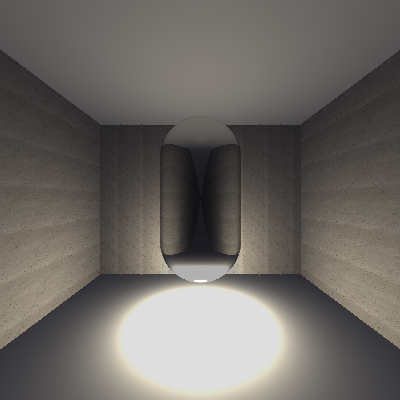
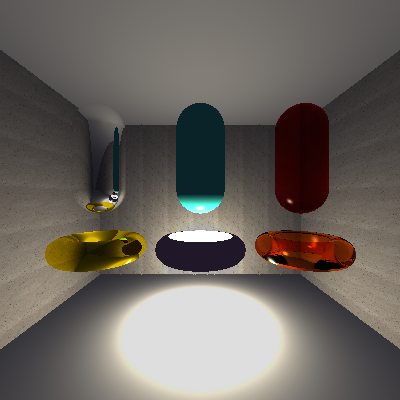
lab8 completo

diff --git a/Lab8/figures.py b/Lab8/figures.py
@@ -645,4 +645,179 @@ class Capsule(Shape):
 		
 		return [u, v]
 
+
+class Torus(Shape):
+	def __init__(self, position, major_radius, minor_radius, material):
+		super().__init__(position, material)
+		self.major_radius = major_radius  # Radio mayor (desde el centro hasta el centro del tubo)
+		self.minor_radius = minor_radius  # Radio menor (radio del tubo)
+		self.type = "Torus"
+	
+	def ray_intersect(self, orig, dir):
+		# Asegurarse de trabajar con numpy arrays
+		orig = np.array(orig, dtype=float)
+		dir = np.array(dir, dtype=float)
+		
+		# Normalizar la dirección del rayo
+		dir_length = np.linalg.norm(dir)
+		if dir_length == 0:
+			return None
+		dir = dir / dir_length
+		
+		epsilon = 1e-6
+		
+		# Trasladar el rayo al sistema de coordenadas del toro
+		ro = orig - np.array(self.position)
+		
+		# Coeficientes para la ecuación cuártica del toro
+		R = self.major_radius
+		r = self.minor_radius
+		
+		# Precálculos
+		dot_ro_ro = np.dot(ro, ro)
+		dot_rd_rd = np.dot(dir, dir)
+		dot_ro_rd = np.dot(ro, dir)
+		
+		k = dot_ro_ro - R*R - r*r
+		
+		# Coeficientes de la ecuación cuártica: at^4 + bt^3 + ct^2 + dt + e = 0
+		a = dot_rd_rd * dot_rd_rd
+		
+		b = 4.0 * dot_rd_rd * dot_ro_rd
+		
+		c = 2.0 * dot_rd_rd * k + 4.0 * dot_ro_rd * dot_ro_rd + 4.0 * R*R * dir[1]*dir[1]
+		
+		d = 4.0 * k * dot_ro_rd + 8.0 * R*R * ro[1] * dir[1]
+		
+		e = k*k + 4.0 * R*R * (ro[1]*ro[1] - r*r)
+		
+		# Resolver la ecuación cuártica usando el método de Ferrari
+		roots = self._solve_quartic(a, b, c, d, e)
+		
+		# Encontrar la intersección más cercana que esté adelante del origen
+		min_t = float('inf')
+		closest_hit = None
+		
+		for t in roots:
+			if t > epsilon and t < min_t:
+				hit_point = orig + dir * t
+				normal = self._calculate_torus_normal(hit_point)
+				
+				if normal is not None:
+					texCoords = self._calculate_uv_torus(hit_point, normal)
+					min_t = t
+					closest_hit = Intercept(hit_point, normal, t, self, dir, texCoords)
+		
+		return closest_hit
+	
+	def _solve_quartic(self, a, b, c, d, e):
+		"""Resuelve una ecuación cuártica usando el método numérico de Newton-Raphson"""
+		roots = []
+		
+		# Normalizar coeficientes
+		if abs(a) < 1e-10:
+			return []
+		
+		b /= a
+		c /= a
+		d /= a
+		e /= a
+		
+		# Método simplificado: buscar raíces usando aproximaciones numéricas
+		# Evaluamos la función en varios puntos para encontrar cambios de signo
+		def f(t):
+			return t*t*t*t + b*t*t*t + c*t*t + d*t + e
+		
+		def df(t):
+			return 4*t*t*t + 3*b*t*t + 2*c*t + d
+		
+		# Buscar raíces en un rango razonable
+		test_points = np.linspace(-10, 10, 1000)
+		
+		for i in range(len(test_points) - 1):
+			t1, t2 = test_points[i], test_points[i + 1]
+			f1, f2 = f(t1), f(t2)
+			
+			# Si hay cambio de signo, hay una raíz
+			if f1 * f2 < 0:
+				# Usar método de Newton-Raphson para refinar la raíz
+				t = (t1 + t2) / 2
+				for _ in range(10):  # Máximo 10 iteraciones
+					ft = f(t)
+					dft = df(t)
+					if abs(dft) < 1e-10:
+						break
+					t_new = t - ft / dft
+					if abs(t_new - t) < 1e-8:
+						break
+					t = t_new
+				
+				if abs(f(t)) < 1e-6:  # Verificar que es una raíz válida
+					roots.append(t)
+		
+		return roots
+	
+	def _calculate_torus_normal(self, hit_point):
+		"""Calcula la normal en un punto del toro"""
+		# Trasladar el punto al sistema de coordenadas del toro
+		p = hit_point - np.array(self.position)
+		
+		R = self.major_radius
+		r = self.minor_radius
+		
+		# Calcular la normal usando la fórmula del gradiente
+		x, y, z = p[0], p[1], p[2]
+		
+		# Distancia desde el eje Y hasta el punto proyectado en el plano XZ
+		rho = np.sqrt(x*x + z*z)
+		
+		if rho < 1e-10:
+			return None  # Punto demasiado cerca del eje central
+		
+		# Componentes de la normal
+		nx = 4.0 * x * (rho - R)
+		ny = 4.0 * y * (rho - R) / rho if rho > 1e-10 else 0
+		nz = 4.0 * z * (rho - R)
+		
+		normal = np.array([nx, ny, nz])
+		normal_length = np.linalg.norm(normal)
+		
+		if normal_length < 1e-10:
+			return None
+		
+		return normal / normal_length
+	
+	def _calculate_uv_torus(self, hit_point, normal):
+		"""Calcula las coordenadas UV para el mapeo de texturas en el toro"""
+		# Trasladar el punto al sistema de coordenadas del toro
+		p = hit_point - np.array(self.position)
+		
+		x, y, z = p[0], p[1], p[2]
+		
+		# Coordenada U: ángulo alrededor del eje principal (eje Y)
+		u = 0.5 + atan2(z, x) / (2 * pi)
+		
+		# Coordenada V: ángulo alrededor del tubo menor
+		# Primero encontrar el punto en el círculo mayor más cercano
+		rho = np.sqrt(x*x + z*z)
+		if rho < 1e-10:
+			v = 0.5
+		else:
+			# Vector desde el punto en el círculo mayor hasta el punto de impacto
+			circle_point = np.array([x * self.major_radius / rho, 0, z * self.major_radius / rho])
+			to_hit = p - circle_point
+			
+			# Ángulo en el plano perpendicular al círculo mayor
+			v = 0.5 + atan2(y, np.linalg.norm([to_hit[0], to_hit[2]]) - self.major_radius) / (2 * pi)
+		
+		# Asegurar que las coordenadas UV estén en el rango [0, 1]
+		u = u % 1.0
+		v = v % 1.0
+		if u < 0:
+			u += 1.0
+		if v < 0:
+			v += 1.0
+		
+		return [u, v]
+
 	

diff --git a/Lab8/escena_figuras.py b/Lab8/escena_figuras.py
@@ -1,7 +1,7 @@
 import pygame
 import numpy as np
 from gl import Renderer
-from figures import Sphere, Cube, Disk, Triangle, Plane, Capsule
+from figures import Sphere, Cube, Disk, Triangle, Plane, Capsule, Torus
 from material import Material, OPAQUE, REFLECTIVE, TRANSPARENT
 from lights import DirectionalLight, AmbientLight, PointLight
 from camera import Camera
@@ -11,13 +11,13 @@ WIDTH, HEIGHT = 400, 400
 def main():
     pygame.init()
     screen = pygame.display.set_mode((WIDTH, HEIGHT))
-    pygame.display.set_caption('Raytracing - Cápsula Reflectiva')
+    pygame.display.set_caption('Raytracing - Cápsulas y Donas')
 
     renderer = Renderer(screen)
     renderer.camera = Camera()
     
-    # Configurar recursión para reflexiones
-    renderer.maxRecursionDepth = 3
+    # Configurar recursión para reflexiones y transparencias
+    renderer.maxRecursionDepth = 5
     
     # Sin fondo (negro)
     renderer.glClearColor(0.0, 0.0, 0.0)
@@ -25,10 +25,21 @@ def main():
     # No usar textura de fondo (comentado para crear cuarto cerrado)
     # renderer.envMap = None
 
-    # Materiales
-    # Material reflectivo para la cápsula (sin textura)
-    material_capsula = Material(diffuse=[0.8, 0.8, 0.8], spec=128, ks=0.9, matType=REFLECTIVE)
-    print("Material reflectivo creado para la cápsula")
+    # Materiales para las figuras
+    
+    # Materiales reflectivos
+    material_plateado = Material(diffuse=[0.9, 0.9, 0.9], spec=256, ks=0.95, matType=REFLECTIVE)
+    material_dorado = Material(diffuse=[1.0, 0.84, 0.0], spec=256, ks=0.9, matType=REFLECTIVE)
+    
+    # Materiales opacos
+    material_turquesa = Material(diffuse=[0.25, 0.88, 0.82], spec=32, ks=0.3, matType=OPAQUE)
+    material_lila = Material(diffuse=[0.8, 0.6, 0.8], spec=32, ks=0.3, matType=OPAQUE)
+    
+    # Materiales transparentes
+    material_rojo_transparente = Material(diffuse=[0.8, 0.2, 0.2], spec=64, ks=0.5, matType=TRANSPARENT, ior=1.5)
+    material_naranja_transparente = Material(diffuse=[1.0, 0.6, 0.2], spec=64, ks=0.5, matType=TRANSPARENT, ior=1.4)
+    
+    print("Materiales creados para todas las figuras")
 
     # Materiales para el cuarto
     # Material para techo y suelo (blanca.bmp)
@@ -72,11 +83,28 @@ def main():
     pared_derecha = Plane(position=[4.0, 0.0, -5.0], normal=[-1, 0, 0], material=material_paredes)
     renderer.scene.append(pared_derecha)
 
-    # Crear la cápsula reflectiva en el centro
+    # Crear las figuras según especificaciones
     
-    # CÁPSULA - Posicionada en el centro del cuarto, reflectiva y sin textura
-    capsula = Capsule(position=[0.0, 0.0, -5.0], radius=1.0, height=2.0, material=material_capsula)
-    renderer.scene.append(capsula)
+    # GRUPO 1: Cápsula plateada reflectiva y dona dorada reflectiva (izquierda)
+    capsula_plateada = Capsule(position=[-2.5, -1.0, -5.0], radius=0.6, height=1.5, material=material_plateado)
+    renderer.scene.append(capsula_plateada)
+    
+    dona_dorada = Torus(position=[-2.5, 1.2, -5.0], major_radius=0.8, minor_radius=0.3, material=material_dorado)
+    renderer.scene.append(dona_dorada)
+    
+    # GRUPO 2: Cápsula turquesa opaca y dona lila opaca (centro)
+    capsula_turquesa = Capsule(position=[0.0, -1.0, -5.0], radius=0.6, height=1.5, material=material_turquesa)
+    renderer.scene.append(capsula_turquesa)
+    
+    dona_lila = Torus(position=[0.0, 1.2, -5.0], major_radius=0.8, minor_radius=0.3, material=material_lila)
+    renderer.scene.append(dona_lila)
+    
+    # GRUPO 3: Cápsula roja transparente y dona naranja transparente (derecha)
+    capsula_roja = Capsule(position=[2.5, -1.0, -5.0], radius=0.6, height=1.5, material=material_rojo_transparente)
+    renderer.scene.append(capsula_roja)
+    
+    dona_naranja = Torus(position=[2.5, 1.2, -5.0], major_radius=0.8, minor_radius=0.3, material=material_naranja_transparente)
+    renderer.scene.append(dona_naranja)
 
     # Luces
     # Luz puntual principal - Como una bombilla en el techo del cuarto
@@ -100,12 +128,12 @@ def main():
     renderer.lights.append(luz_indirecta)
 
     print("Iniciando renderizado...")
-    print("Cuarto cerrado creado con:")
-    print("- Suelo y techo con textura blanca.bmp")
-    print("- 3 paredes con textura quarzo.bmp")
-    print("- Una cápsula reflectiva en el centro (sin textura)")
-    print("- Luz puntual interior para iluminación realista")
-    print("- Luz ambiental y direccional para detalles")
+    print("Escena creada con:")
+    print("- Cuarto cerrado (suelo, techo y 3 paredes con texturas)")
+    print("- GRUPO 1 (izquierda): Capsula plateada reflectiva + Dona dorada reflectiva")
+    print("- GRUPO 2 (centro): Capsula turquesa opaca + Dona lila opaca")  
+    print("- GRUPO 3 (derecha): Capsula roja transparente + Dona naranja transparente")
+    print("- Iluminación interior realista")
 
     # Renderizar
     renderer.glRenderRaytracing()
